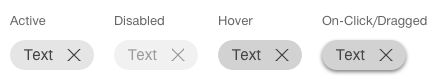
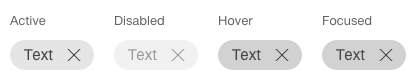
fix: correct behaviour description and style definition for chip component
* Remove on-click/dragged status
* Add focused status
* Adapt pattern description for backspace usage

Closes #13

diff --git a/documentation/components/chip/chip-en.md b/documentation/components/chip/chip-en.md
@@ -8,11 +8,11 @@
 
 
 ## 3. Rules
-* A filter chip always has an indicator that shows how many results lie behind it.
 * The term in the chip is always single-line (no line breaks) and the chip itself increases in width with the text.
 * If a chip is too long for the viewport because of the text, the text is shortened with “…”.
-* The input chips are shown in a [text field](https://digital.sbb.ch/en/webapps/components/textfiled). This can also be multi-line depending on the number of chips.
-
+* The input chips are shown in a [text field](https://digital.sbb.ch/en/webapps/components/textfiled). This can also be multi-line depending on the number of chips and available space.
+* The chips in the textfield can be deleted by using backspace.
+* A filter chip always has an indicator that shows how many results lie behind it.
 
 ## 4. Variants and statuses
 The component has the following statuses:
@@ -22,17 +22,17 @@ The component has the following statuses:
 This variant has the following statuses:
 * Disabled
 * Hover
-* On-Click/Dragged
+* Focused
 
 ![Image of the chip component as an entry value](https://raw.githubusercontent.com/sbb-design-systems/design-system-webapp-documentation/master/documentation/components/chip/images/chip_input.png 'class: image')
 
-* The chips can be generated via ‘autocomplete’ selection or with free text depending on the case.
+* The chips can be generated via ‘autocomplete’ selection or with free text depending on the use case.
 
 #### Design specification
 * [Active](https://sbb.invisionapp.com/d/main#/console/17140415/355318411/inspect)
 * [Disabled](https://sbb.invisionapp.com/d/main#/console/17140415/355318412/inspect)
 * [Hover](https://sbb.invisionapp.com/d/main#/console/17140415/355318413/inspect)
-* [On-Click/Dragged](https://sbb.invisionapp.com/d/main#/console/17140415/355318414/inspect)
+* [Focused](https://sbb.invisionapp.com/d/main#/console/17140415/411471931/inspect)
 
 ### 4.2 Filter
 This variant has the following statuses:

diff --git a/documentation/components/chip/chip-de.md b/documentation/components/chip/chip-de.md
@@ -8,11 +8,11 @@
 
 
 ## 3. Regeln
-* Ein Filter-Chip hat immer einen Indikator, welcher angibt wie viele Ergebnisse dahinterstecken.
 * Der Begriff im Chip ist immer einzeilig (keine Zeilenumbrüche) und der Chip selber wächst in der Breite mit dem Text mit.
 * Wird ein Chip aufgrund des Textes zu lang für den Viewport, wird der Text mit «...» gekürzt.
-* Die Input-Chips werden in einem [Textfield](https://digital.sbb.ch/de/webapps/components/textfield) dargestellt. Dieses kann je nach Anzahl Chips auch mehrzeilig werden.
-
+* Die Input-Chips werden in einem [Textfield](https://digital.sbb.ch/de/webapps/components/textfield) dargestellt. Dieses kann je nach Anzahl Chips und vorhandenem Platz auch mehrzeilig werden.
+* Mittels Backspace können Chips im Textfield gelöscht werden.
+* Ein Filter-Chip hat immer einen Indikator, welcher angibt wie viele Ergebnisse dahinterstecken.
 
 ## 4. Ausprägungen und Zustände
 Die Komponente hat folgende Zustände:
@@ -22,7 +22,7 @@ Die Komponente hat folgende Zustände:
 Diese Ausprägung hat zusätzlich folgende Zustände:
 * Disabled
 * Hover
-* On-Click/Dragged
+* Focused
 
 ![Darstellung der Komponente Chip als Eingabewert](https://raw.githubusercontent.com/sbb-design-systems/design-system-webapp-documentation/master/documentation/components/chip/images/chip_input.png 'class: image')
 
@@ -32,7 +32,7 @@ Diese Ausprägung hat zusätzlich folgende Zustände:
 * [Active](https://sbb.invisionapp.com/d/main#/console/17140415/355318411/inspect)
 * [Disabled](https://sbb.invisionapp.com/d/main#/console/17140415/355318412/inspect)
 * [Hover](https://sbb.invisionapp.com/d/main#/console/17140415/355318413/inspect)
-* [On-Click/Dragged](https://sbb.invisionapp.com/d/main#/console/17140415/355318414/inspect)
+* [Focused](https://sbb.invisionapp.com/d/main#/console/17140415/411471931/inspect)
 
 ### 4.2 Filter
 Diese Ausprägung hat zusätzlich folgende Zustände:

diff --git a/documentation/components/chip/chip-fr.md b/documentation/components/chip/chip-fr.md
@@ -8,11 +8,11 @@
 
 
 ## 3. Regeln
-* Ein Filter-Chip hat immer einen Indikator, welcher angibt wie viele Ergebnisse dahinterstecken.
 * Der Begriff im Chip ist immer einzeilig (keine Zeilenumbrüche) und der Chip selber wächst in der Breite mit dem Text mit.
 * Wird ein Chip aufgrund des Textes zu lang für den Viewport, wird der Text mit «...» gekürzt.
-* Die Input-Chips werden in einem [Textfield](https://digital.sbb.ch/de/webapps/components/textfiled) dargestellt. Dieses kann je nach Anzahl Chips auch mehrzeilig werden.
-
+* Die Input-Chips werden in einem [Textfield](https://digital.sbb.ch/de/webapps/components/textfield) dargestellt. Dieses kann je nach Anzahl Chips und vorhandenem Platz auch mehrzeilig werden.
+* Mittels Backspace können Chips im Textfield gelöscht werden.
+* Ein Filter-Chip hat immer einen Indikator, welcher angibt wie viele Ergebnisse dahinterstecken.
 
 ## 4. Ausprägungen und Zustände
 Die Komponente hat folgende Zustände:
@@ -22,7 +22,7 @@ Die Komponente hat folgende Zustände:
 Diese Ausprägung hat zusätzlich folgende Zustände:
 * Disabled
 * Hover
-* On-Click/Dragged
+* Focused
 
 ![Darstellung der Komponente Chip als Eingabewert](https://raw.githubusercontent.com/sbb-design-systems/design-system-webapp-documentation/master/documentation/components/chip/images/chip_input.png 'class: image')
 
@@ -32,7 +32,7 @@ Diese Ausprägung hat zusätzlich folgende Zustände:
 * [Active](https://sbb.invisionapp.com/d/main#/console/17140415/355318411/inspect)
 * [Disabled](https://sbb.invisionapp.com/d/main#/console/17140415/355318412/inspect)
 * [Hover](https://sbb.invisionapp.com/d/main#/console/17140415/355318413/inspect)
-* [On-Click/Dragged](https://sbb.invisionapp.com/d/main#/console/17140415/355318414/inspect)
+* [Focused](https://sbb.invisionapp.com/d/main#/console/17140415/411471931/inspect)
 
 ### 4.2 Filter
 Diese Ausprägung hat zusätzlich folgende Zustände:

diff --git a/documentation/components/chip/chip-it.md b/documentation/components/chip/chip-it.md
@@ -8,11 +8,11 @@
 
 
 ## 3. Regeln
-* Ein Filter-Chip hat immer einen Indikator, welcher angibt wie viele Ergebnisse dahinterstecken.
 * Der Begriff im Chip ist immer einzeilig (keine Zeilenumbrüche) und der Chip selber wächst in der Breite mit dem Text mit.
 * Wird ein Chip aufgrund des Textes zu lang für den Viewport, wird der Text mit «...» gekürzt.
-* Die Input-Chips werden in einem [Textfield](https://digital.sbb.ch/de/webapps/components/textfiled) dargestellt. Dieses kann je nach Anzahl Chips auch mehrzeilig werden.
-
+* Die Input-Chips werden in einem [Textfield](https://digital.sbb.ch/de/webapps/components/textfield) dargestellt. Dieses kann je nach Anzahl Chips und vorhandenem Platz auch mehrzeilig werden.
+* Mittels Backspace können Chips im Textfield gelöscht werden.
+* Ein Filter-Chip hat immer einen Indikator, welcher angibt wie viele Ergebnisse dahinterstecken.
 
 ## 4. Ausprägungen und Zustände
 Die Komponente hat folgende Zustände:
@@ -22,7 +22,7 @@ Die Komponente hat folgende Zustände:
 Diese Ausprägung hat zusätzlich folgende Zustände:
 * Disabled
 * Hover
-* On-Click/Dragged
+* Focused
 
 ![Darstellung der Komponente Chip als Eingabewert](https://raw.githubusercontent.com/sbb-design-systems/design-system-webapp-documentation/master/documentation/components/chip/images/chip_input.png 'class: image')
 
@@ -32,7 +32,7 @@ Diese Ausprägung hat zusätzlich folgende Zustände:
 * [Active](https://sbb.invisionapp.com/d/main#/console/17140415/355318411/inspect)
 * [Disabled](https://sbb.invisionapp.com/d/main#/console/17140415/355318412/inspect)
 * [Hover](https://sbb.invisionapp.com/d/main#/console/17140415/355318413/inspect)
-* [On-Click/Dragged](https://sbb.invisionapp.com/d/main#/console/17140415/355318414/inspect)
+* [Focused](https://sbb.invisionapp.com/d/main#/console/17140415/411471931/inspect)
 
 ### 4.2 Filter
 Diese Ausprägung hat zusätzlich folgende Zustände:
